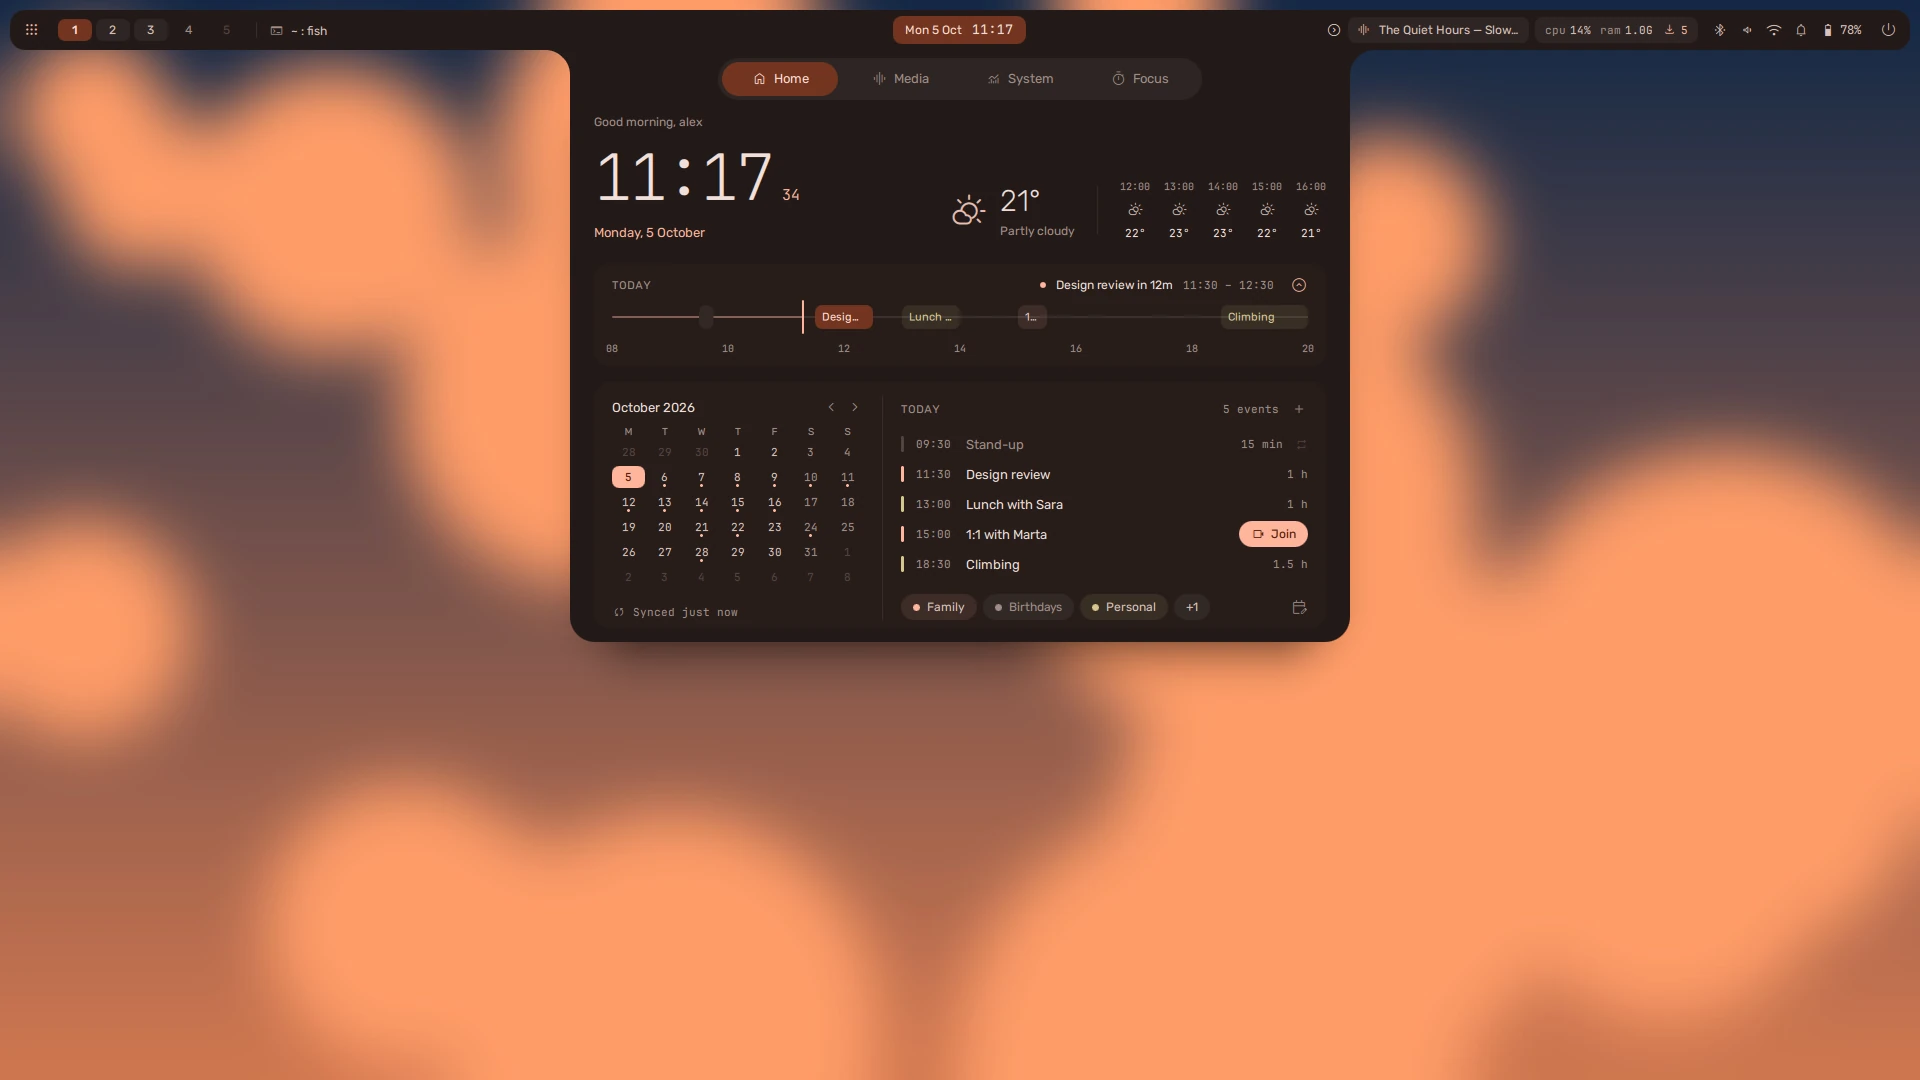
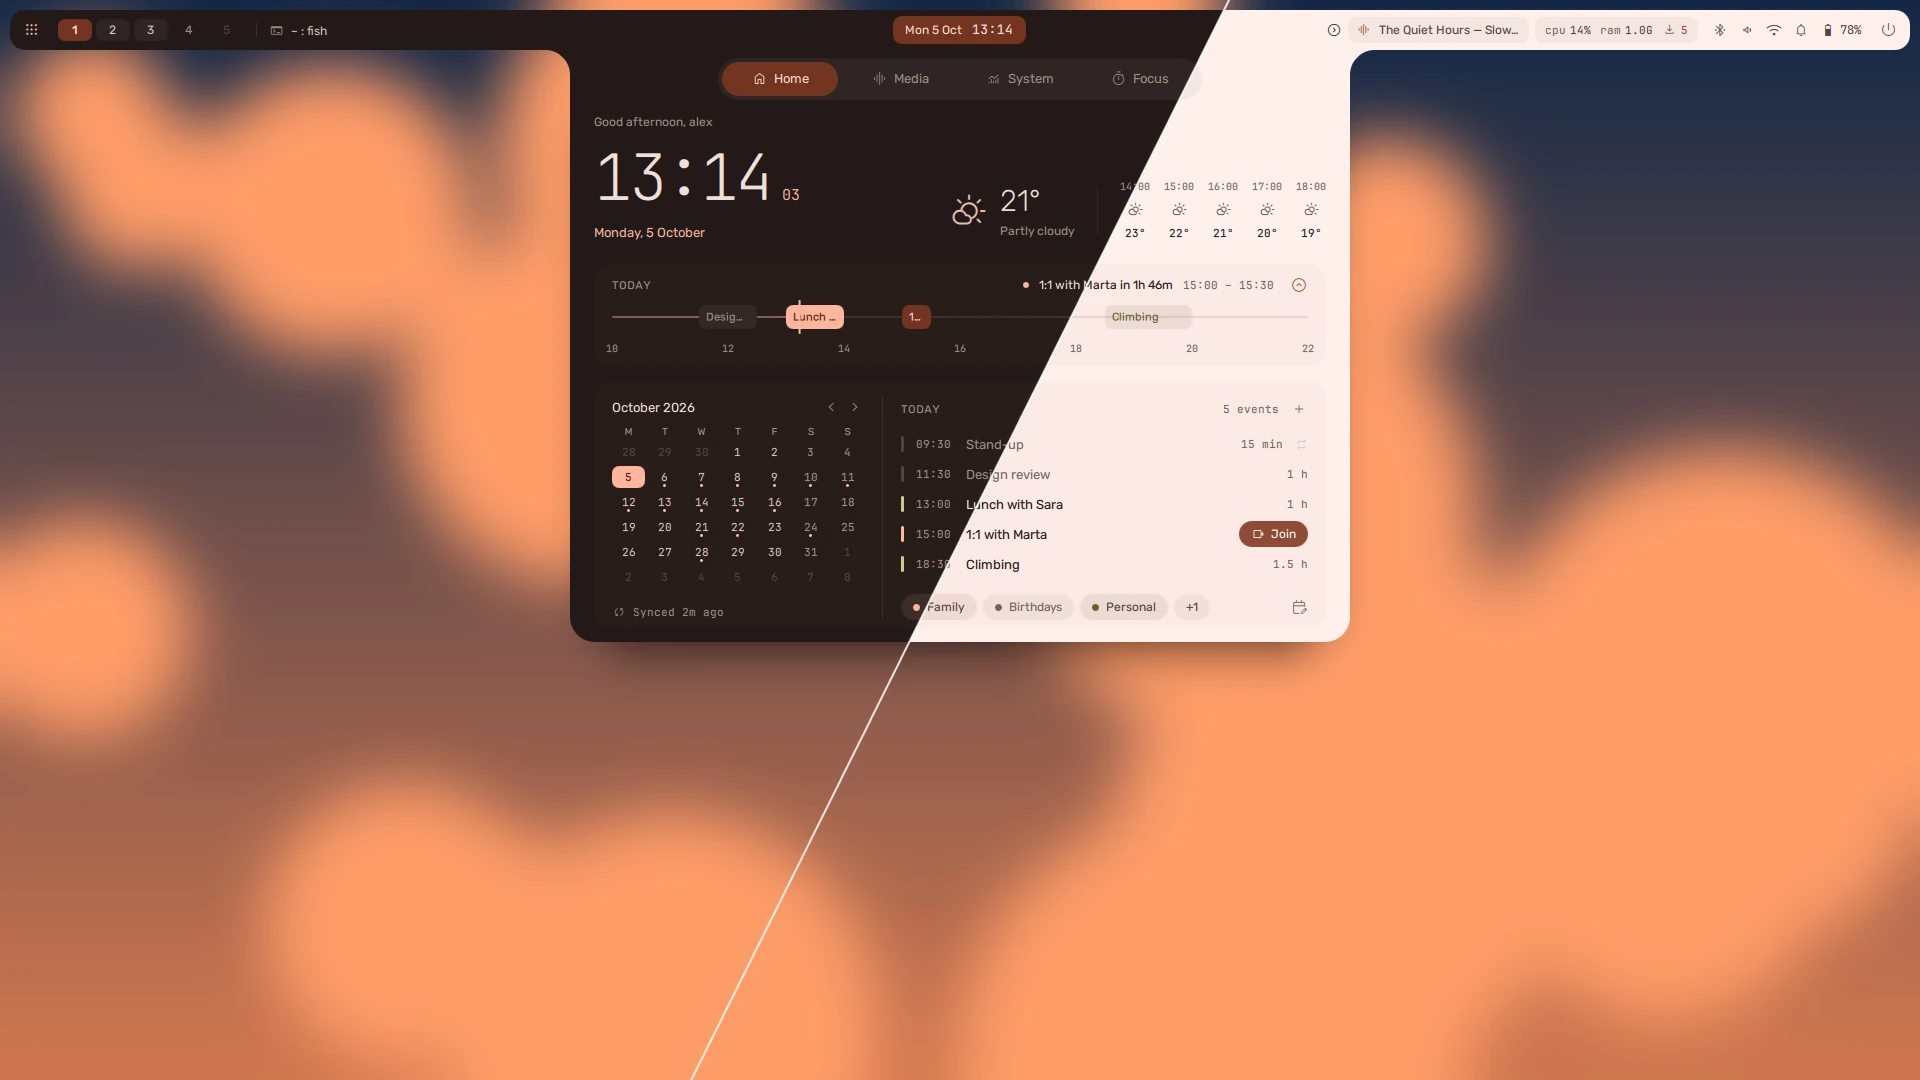
docs: the hero cut diagonally, dark on one side and light on the other

diff --git a/README.md b/README.md
@@ -4,7 +4,7 @@ A Hyprland desktop shell and dotfiles for Fedora, built on
 [Quickshell](https://quickshell.org). Material 3 throughout, retinted from the
 current wallpaper.
 
-![The vela desktop: the bar along the top and the dashboard open under the clock, with the time, the weather, the day's timeline, the month and today's events, over a dusk wallpaper.](site/src/assets/screenshots/hero.webp)
+![The vela desktop: the bar along the top and the dashboard open under the clock, with the time, the weather, the day's timeline, the month and today's events, over a dusk wallpaper, cut diagonally: the dark palette on one side of the line and the light one on the other.](site/src/assets/screenshots/hero.webp)
 
 **Documentation: [vela.ijasmin.it](https://vela.ijasmin.it/)**
 
